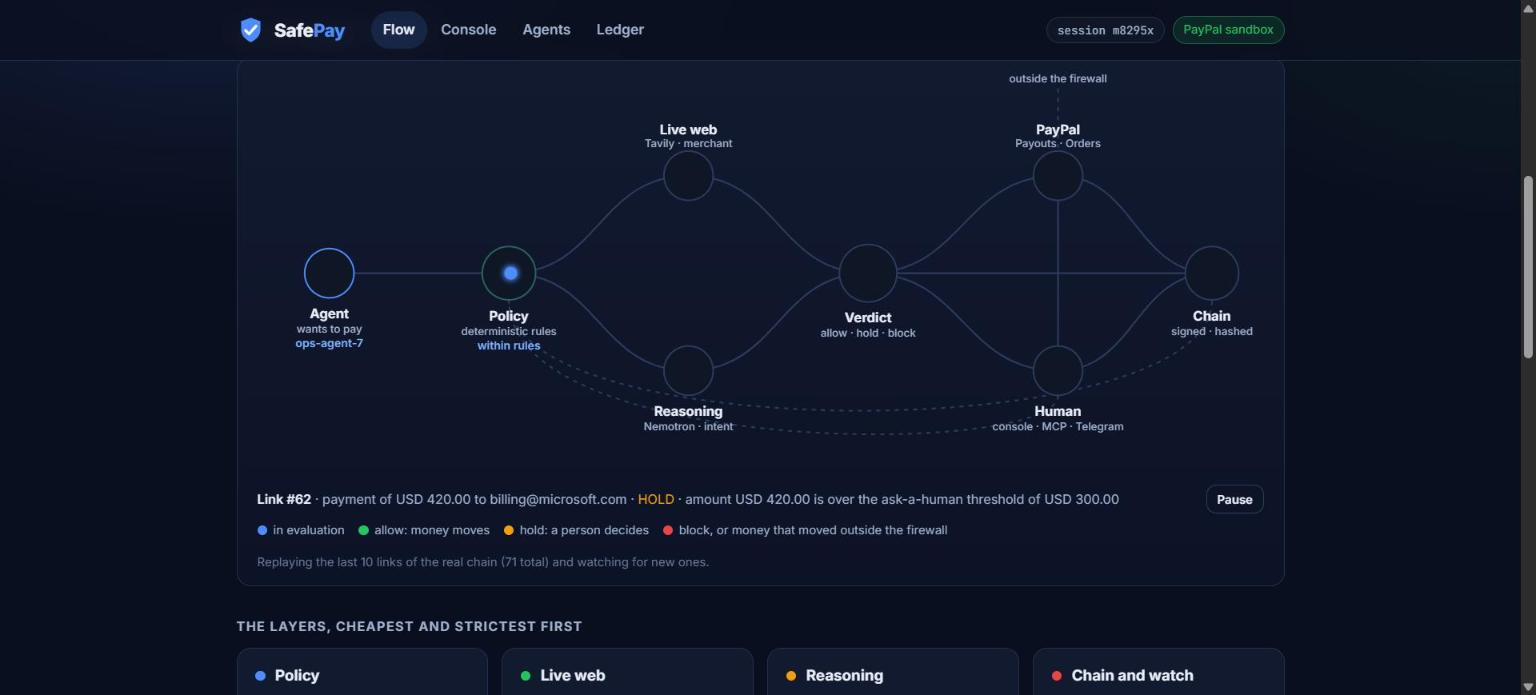
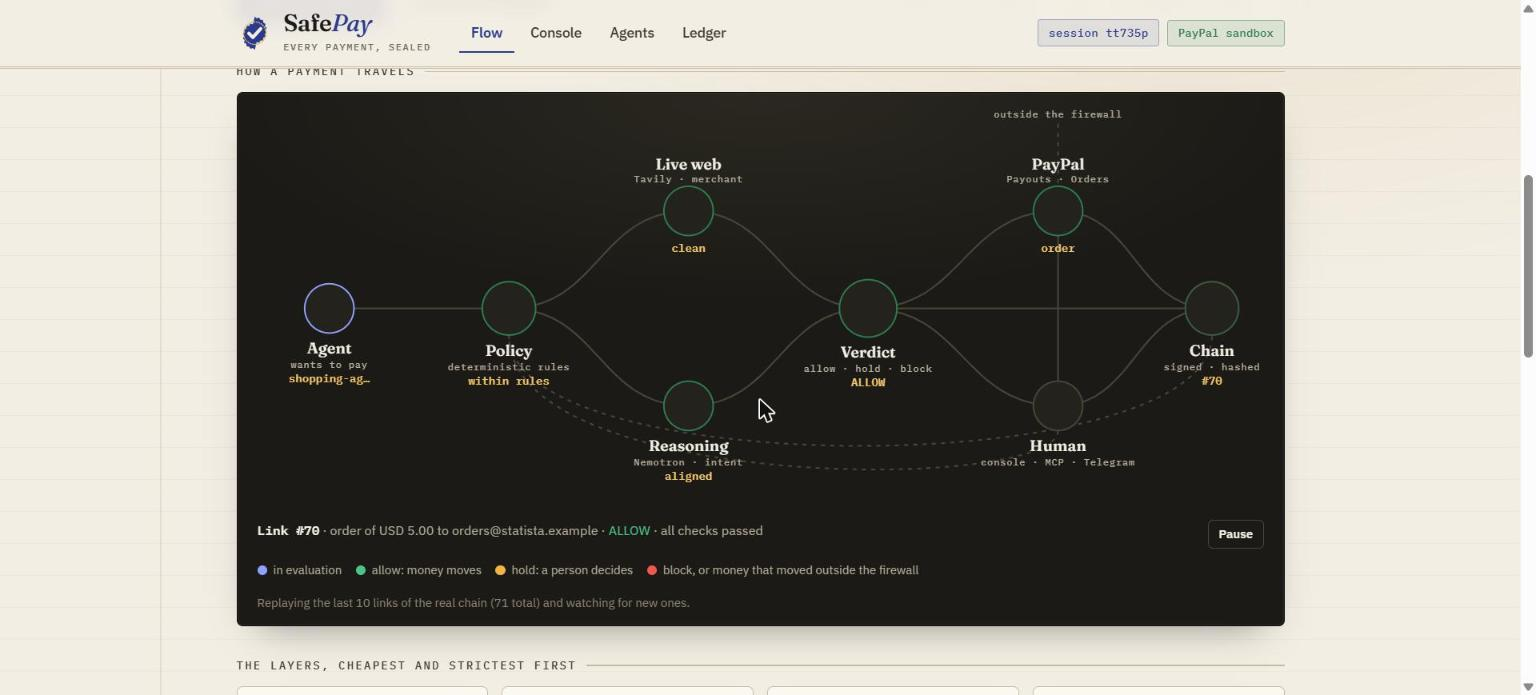
README: screenshots of the new identity
Home, Flow and Ledger captured from production; the dark-theme captures
are gone so the repo shows one look.

diff --git a/README.md b/README.md
@@ -26,17 +26,11 @@ replays the real links of the audit chain and animates new ones as they land.
 
 ![The Flow: a payment pulse travelling from the agent through policy, live web and reasoning to the verdict, PayPal, a human, and the chain](docs/img/flow.jpg)
 
-| Write the policy in plain words: Nemotron drafts, you review and apply | The Ledger page: the hash chain, scoped to your session |
-|---|---|
-| ![Policy in plain words](docs/img/policy-in-plain-words.jpg) | ![Ledger page](docs/img/ledger-page.jpg) |
+**The Ledger.** The hash chain as an AG Grid table, with AG Charts reading
+the same chain: the verdict mix, approved spend per agent (money that moved
+outside SafePay as its own bar) and average risk by category.
 
-| A casino payout held: the web check found a first-hand complaint, the reasoning check found a goal mismatch, and every source is one click away | Freeze an agent, the way a bank freezes a card |
-|---|---|
-| ![HOLD card with the merchant and reasoning evidence opened](docs/img/hold-casino-evidence.jpg) | ![Agents in this session with the Freeze agent switch](docs/img/freeze-agent.jpg) |
-| **Pending approvals and the hash-chained ledger (AG Grid), chain verified** | **The same ledger after the tamper demo: one edited row and the chain breaks** |
-| ![Pending approvals above the audit ledger, chain verified badge](docs/img/approvals-and-ledger.jpg) | ![Chain BROKEN badge after the tamper demo](docs/img/chain-broken.jpg) |
-
-![AG Charts under the ledger: verdict mix, approved spend per agent with the money that moved outside SafePay as its own bar, average risk by category](docs/img/ledger-charts.jpg)
+![The Ledger page: the audit chain in AG Grid and three AG Charts](docs/img/ledger-page.jpg)
 
 ---
 

diff --git a/docs/devpost-submission.md b/docs/devpost-submission.md
@@ -170,14 +170,11 @@ of the web console runs on Render at https://safepay-ygzp.onrender.com, deployed
 from the included render.yaml blueprint with gunicorn).
 
 ## Image gallery (upload in this order)
-0. `docs/img/flow.jpg` (thumbnail): the Flow, a payment pulse travelling through the layers.
-0b. `docs/img/home.jpg`: the home page with live figures from the chain.
-1. `docs/img/policy-in-plain-words.jpg`: the policy written as a sentence, drafted by Nemotron.
-2. `docs/img/hold-casino-evidence.jpg`: the casino HOLD with the web sources and the model verdict opened.
-3. `docs/img/approvals-and-ledger.jpg`: pending approvals above the verified hash chain (AG Grid).
-4. `docs/img/chain-broken.jpg`: the tamper demo, chain BROKEN at the edited row.
-5. `docs/img/freeze-agent.jpg`: the Freeze agent switch.
-6. `docs/img/ledger-charts.jpg`: AG Charts, including the bar for money that moved outside SafePay.
+1. `docs/img/flow.jpg` (thumbnail): the Flow, a payment pulse travelling through the layers.
+2. `docs/img/home.jpg`: the home page, "every payment, sealed", with live figures from the chain.
+3. `docs/img/ledger-page.jpg`: the hash chain in AG Grid and the three AG Charts.
+Add frames from the video for the policy in plain words, the casino HOLD with
+its evidence open, the Telegram card and the tamper demo.
 
 ## Links
 - Repo: https://github.com/NovaCorpAI/safepay
